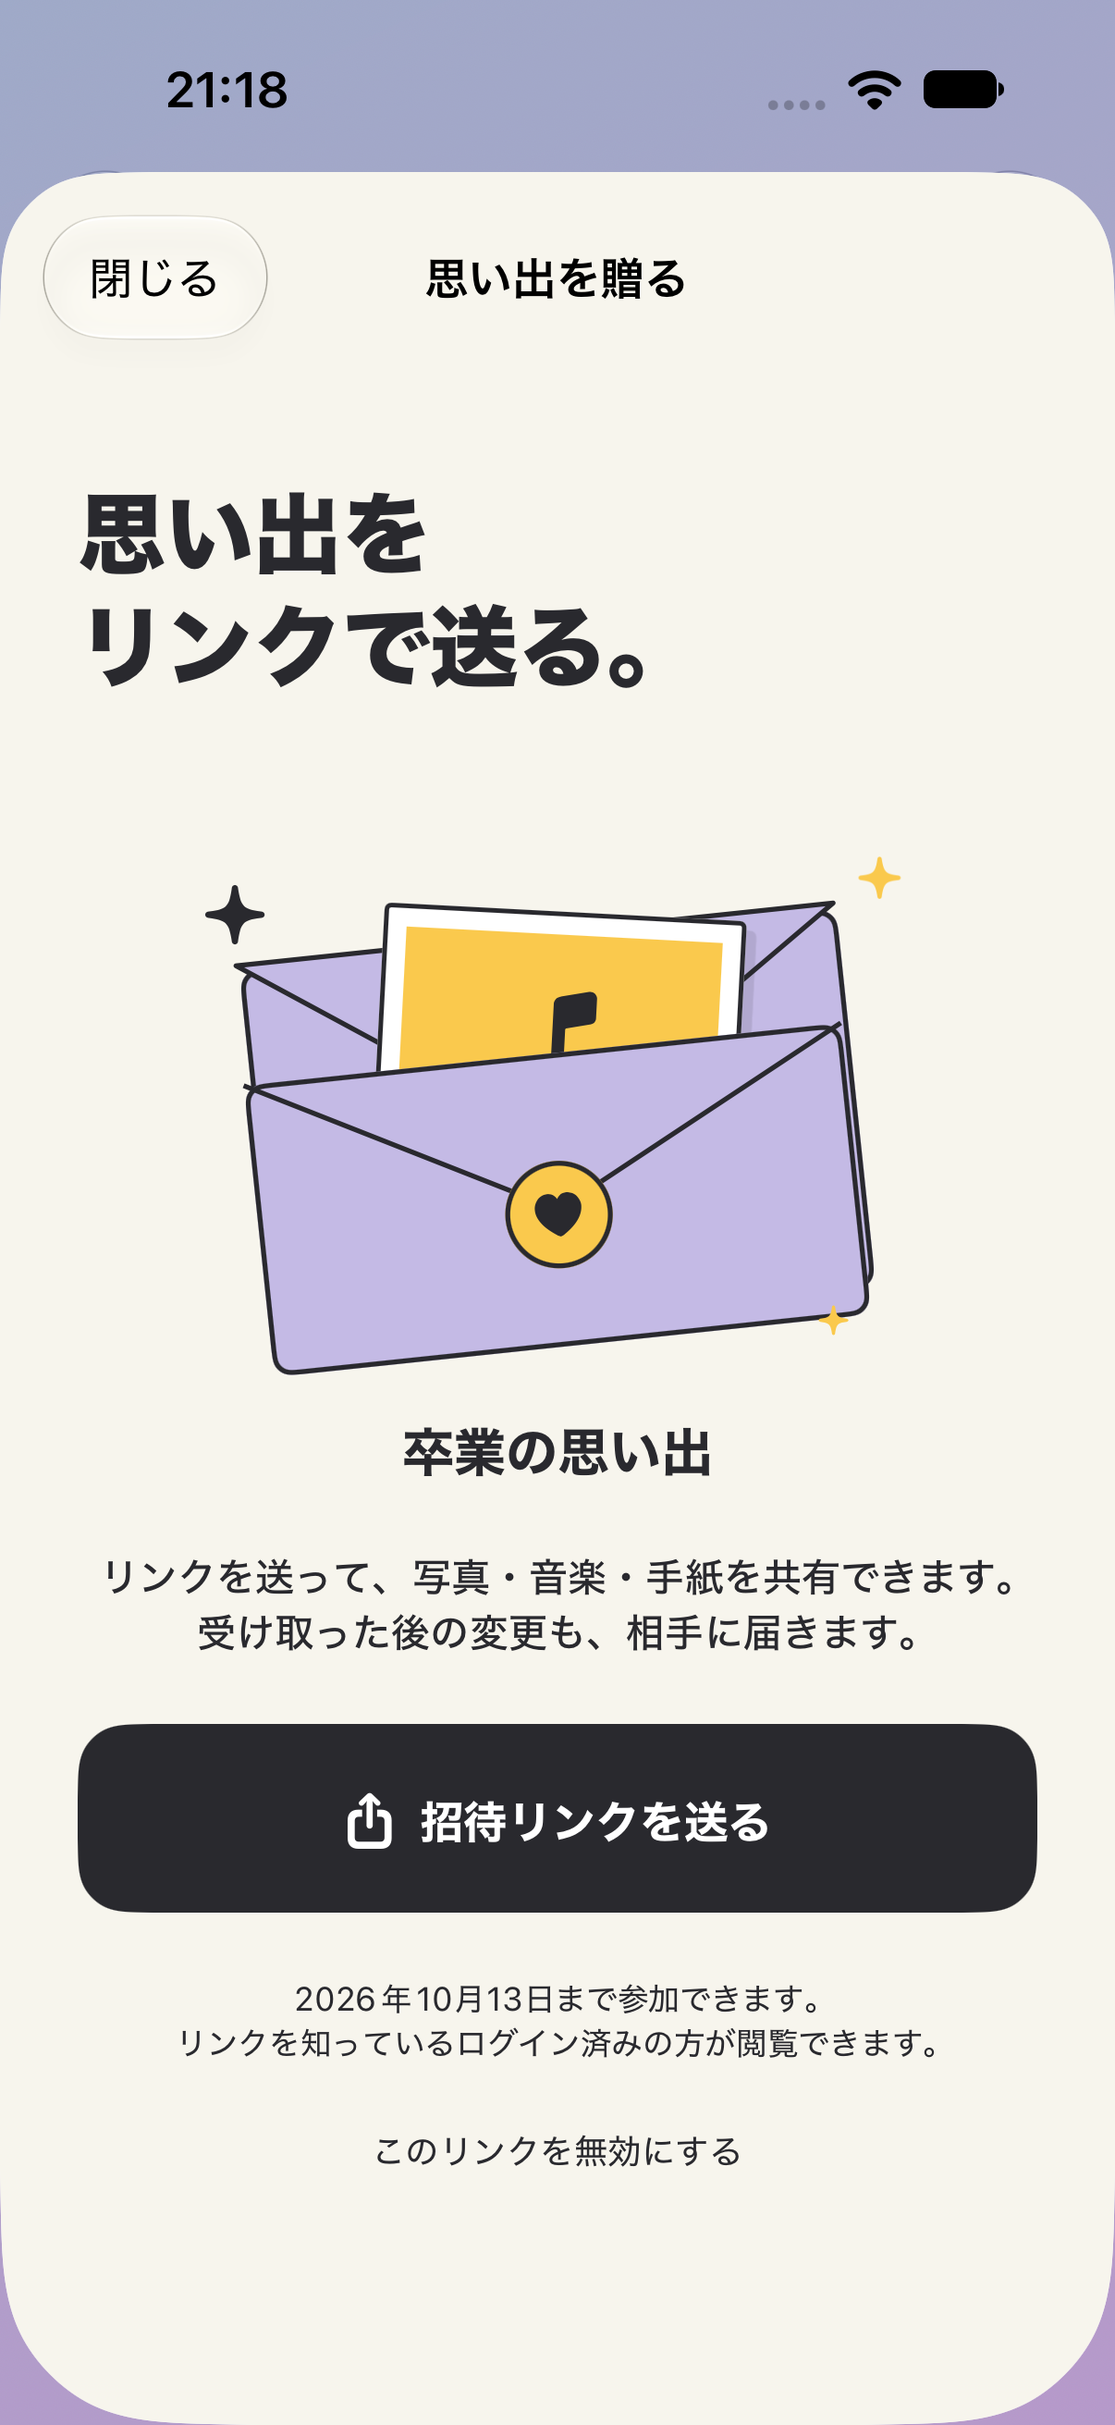
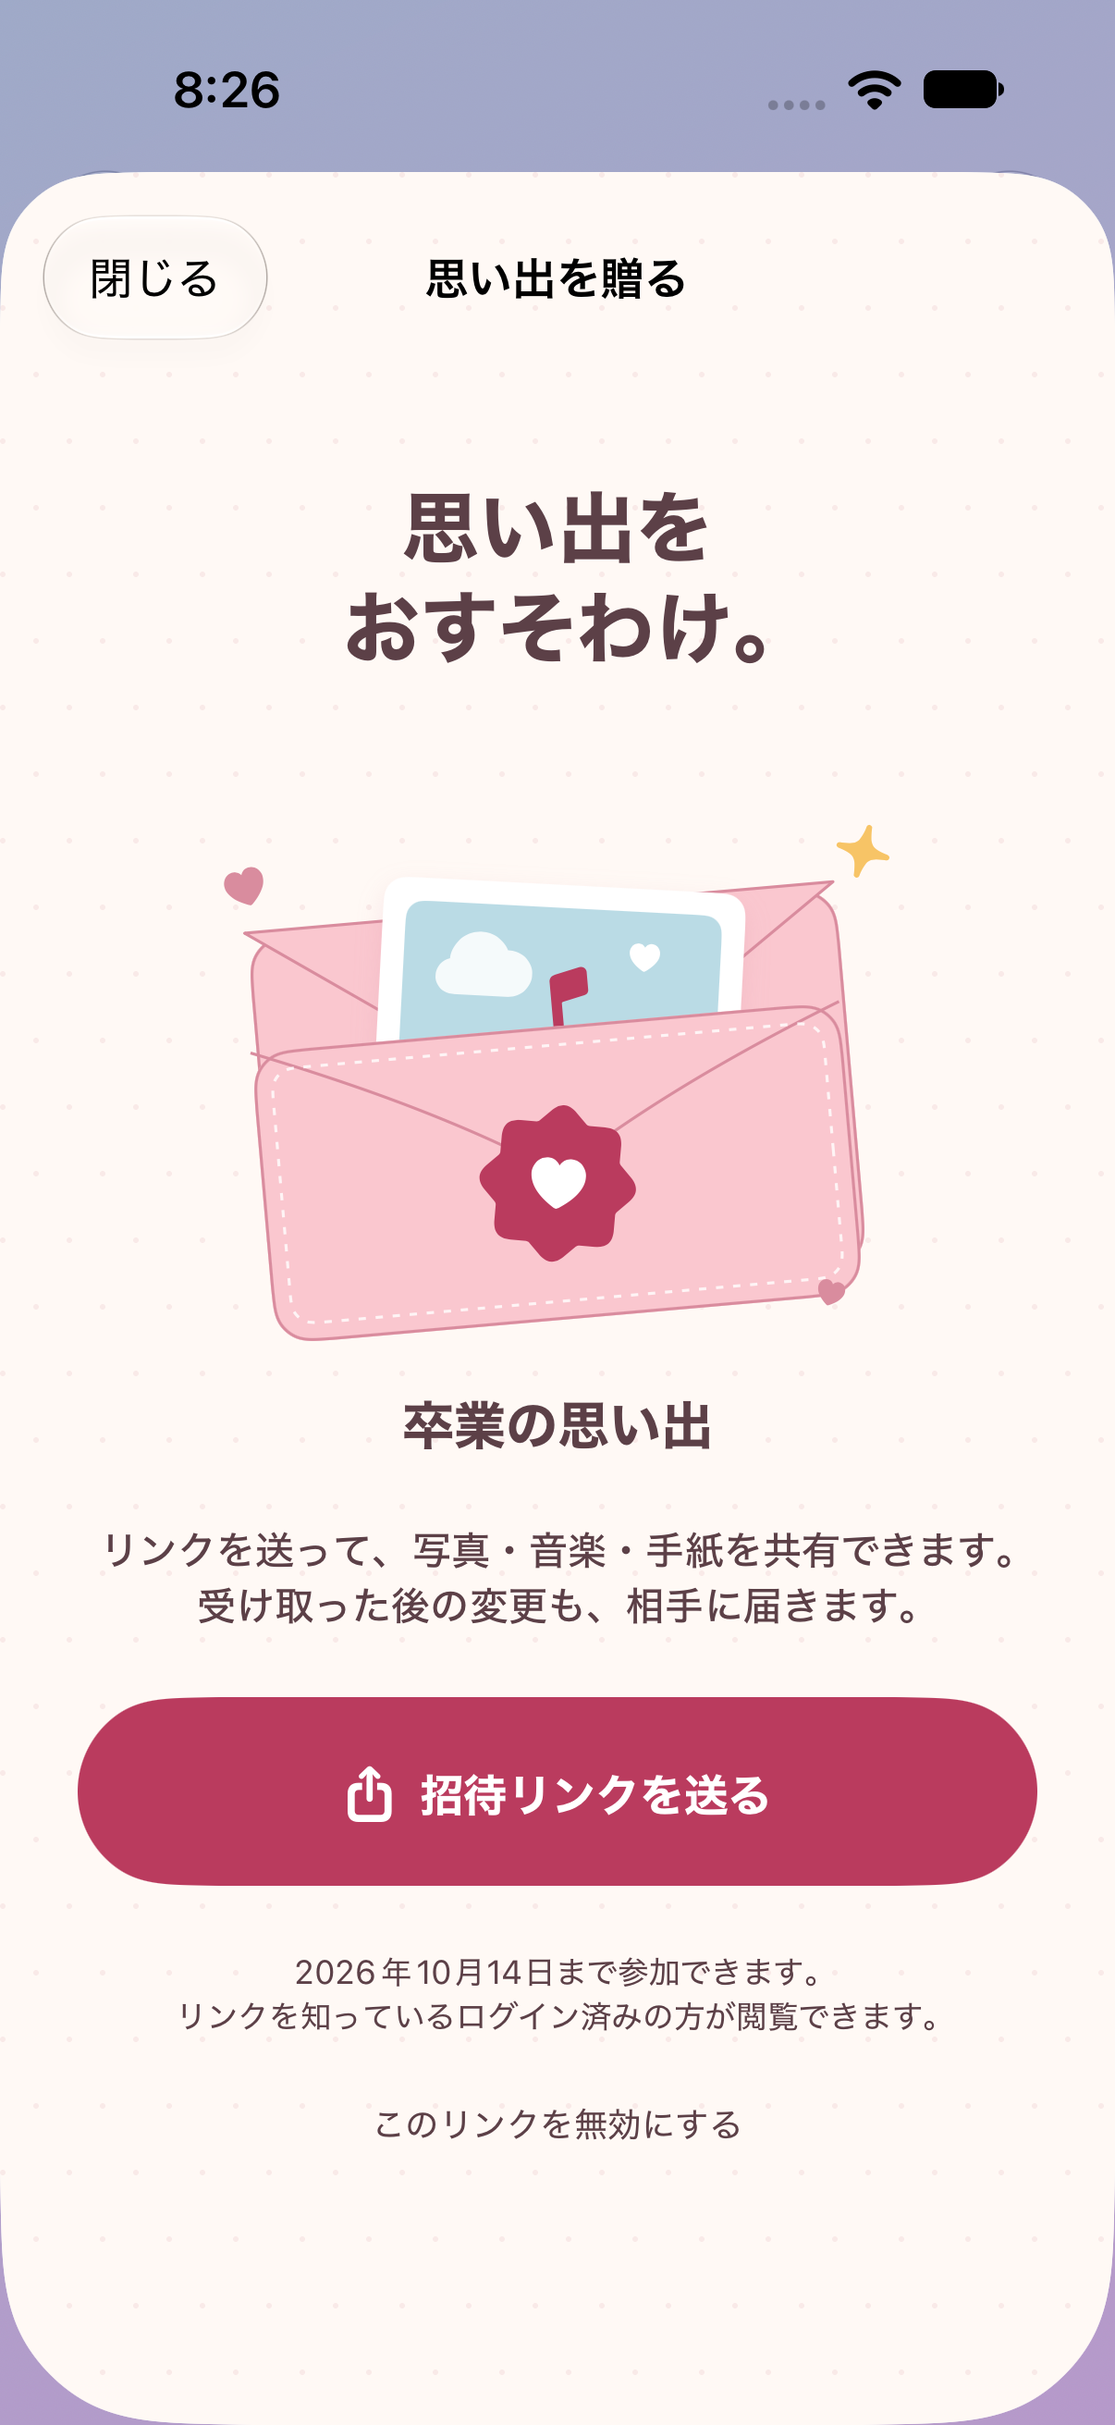
招待画面をピンクの封筒とハートの可愛いデザインへ調整

Changed region(s): [[0.0614, 0.3398, 0.9511, 0.8959], [0.0614, 0.1854, 0.675, 0.3089], [0.1534, 0.0309, 0.2761, 0.0618]]

diff --git a/sotsugyo/View/FolderInvitationView.swift b/sotsugyo/View/FolderInvitationView.swift
@@ -1,10 +1,13 @@
 import SwiftUI
 
 private enum GiftPalette {
-    static let ink = Color(red: 0.16, green: 0.16, blue: 0.18)
-    static let paper = Color(red: 0.97, green: 0.96, blue: 0.93)
-    static let lilac = Color(red: 0.77, green: 0.73, blue: 0.90)
-    static let yellow = Color(red: 0.98, green: 0.79, blue: 0.30)
+    static let ink = Color(red: 0.36, green: 0.25, blue: 0.28)
+    static let paper = Color(red: 1, green: 0.975, blue: 0.96)
+    static let pink = Color(red: 0.98, green: 0.78, blue: 0.81)
+    static let seam = Color(red: 0.85, green: 0.55, blue: 0.62)
+    static let rose = Color(red: 0.73, green: 0.23, blue: 0.37)
+    static let yellow = Color(red: 0.97, green: 0.77, blue: 0.40)
+    static let blue = Color(red: 0.73, green: 0.86, blue: 0.90)
 }
 
 struct FolderInvitationView: View {
@@ -26,15 +29,15 @@ struct FolderInvitationView: View {
                 GiftBackdrop()
                 ScrollView {
                     VStack(spacing: 24) {
-                        VStack(alignment: .leading, spacing: 12) {
+                        VStack(spacing: 12) {
                             Text(opened ? "思い出が、\n届きました。" : "思い出が\n届いています。")
-                                .font(.system(size: 34, weight: .black, design: .rounded))
-                                .multilineTextAlignment(.leading)
+                                .font(.system(size: 30, weight: .heavy, design: .rounded))
+                                .multilineTextAlignment(.center)
                                 .accessibilityIdentifier("invite.heading")
                             Text(opened ? "写真も、音楽も、手紙も。" : "写真と音楽、手紙をひとつに。")
                                 .font(.subheadline.weight(.semibold)).foregroundStyle(GiftPalette.ink.opacity(0.65))
                         }
-                        .frame(maxWidth: .infinity, alignment: .leading)
+                        .frame(maxWidth: .infinity)
                         .padding(.top, 16)
                         GiftEnvelope(opened: opened, reduceMotion: reduceMotion)
                             .frame(height: 250)
@@ -75,7 +78,7 @@ struct FolderInvitationView: View {
             .sensoryFeedback(.success, trigger: opened)
             .interactiveDismissDisabled(model.isWorking && model.invitation != nil)
         }
-        .tint(GiftPalette.ink)
+        .tint(GiftPalette.rose)
     }
 
     @ViewBuilder private var controls: some View {
@@ -97,7 +100,7 @@ struct FolderInvitationView: View {
                 }
                 .font(.system(.headline, design: .rounded, weight: .heavy)).frame(maxWidth: .infinity, minHeight: 58)
                 .foregroundStyle(.white)
-                .background(GiftPalette.ink, in: RoundedRectangle(cornerRadius: 18))
+                .background(GiftPalette.rose, in: Capsule())
             }
             .buttonStyle(.plain).disabled(model.isWorking)
             .accessibilityIdentifier("invite.open")
@@ -121,9 +124,10 @@ struct FolderInviteShareView: View {
                 GiftBackdrop()
                 ScrollView {
                     VStack(spacing: 24) {
-                        Text("思い出を\nリンクで送る。")
-                            .font(.system(size: 34, weight: .black, design: .rounded))
-                            .frame(maxWidth: .infinity, alignment: .leading)
+                        Text("思い出を\nおすそわけ。")
+                            .multilineTextAlignment(.center)
+                            .font(.system(size: 30, weight: .heavy, design: .rounded))
+                            .frame(maxWidth: .infinity)
                             .padding(.top, 12)
                         GiftEnvelope(opened: false, reduceMotion: true).scaleEffect(0.88).frame(height: 210)
                         Text(folderName).font(.system(.title3, design: .rounded, weight: .heavy))
@@ -135,7 +139,7 @@ struct FolderInviteShareView: View {
                                 Label("招待リンクを送る", systemImage: "square.and.arrow.up").foregroundStyle(.white)
                                     .font(.system(.headline, design: .rounded, weight: .heavy)).frame(maxWidth: .infinity, minHeight: 54)
                             }
-                            .buttonStyle(.borderedProminent).buttonBorderShape(.roundedRectangle(radius: 18))
+                            .buttonStyle(.borderedProminent).buttonBorderShape(.capsule)
                             .accessibilityIdentifier("invite.share")
                             Text("\(invitation.expiresAt.formatted(date: .abbreviated, time: .omitted))まで参加できます。\nリンクを知っているログイン済みの方が閲覧できます。")
                                 .font(.caption).multilineTextAlignment(.center)
@@ -144,13 +148,13 @@ struct FolderInviteShareView: View {
                         } else {
                             if model.isRevoked { Text("リンクを無効にしました。") }
                             Button(model.isRevoked ? "新しい招待リンクを作る" : "招待リンクを作る") { Task { await model.create(folderID: folderID) } }
-                                .font(.headline.weight(.heavy)).buttonStyle(.borderedProminent).controlSize(.large)
+                                .font(.headline.weight(.heavy)).buttonStyle(.borderedProminent).buttonBorderShape(.capsule).controlSize(.large)
                         }
                         if let error = model.error { Text(error).font(.footnote).foregroundStyle(.red) }
                     }.padding(28).frame(maxWidth: 540).frame(maxWidth: .infinity)
                 }
             }
-            .foregroundStyle(GiftPalette.ink).tint(GiftPalette.ink)
+            .foregroundStyle(GiftPalette.ink).tint(GiftPalette.rose)
             .navigationTitle("思い出を贈る").navigationBarTitleDisplayMode(.inline)
             .toolbar { ToolbarItem(placement: .cancellationAction) { Button("閉じる") { dismiss() }.disabled(model.isWorking) } }
             .confirmationDialog("招待リンクを無効にしますか？", isPresented: $confirmRevoke, titleVisibility: .visible) {
@@ -163,7 +167,17 @@ struct FolderInviteShareView: View {
 
 private struct GiftBackdrop: View {
     var body: some View {
-        GiftPalette.paper.ignoresSafeArea()
+        GiftPalette.paper.overlay {
+            Canvas { context, size in
+                for row in 0...Int(size.height / 24) {
+                    for column in 0...Int(size.width / 24) {
+                        let x = CGFloat(column) * 24 + (row.isMultiple(of: 2) ? 0 : 12)
+                        let dot = CGRect(x: x, y: CGFloat(row) * 24, width: 2, height: 2)
+                        context.fill(Path(ellipseIn: dot), with: .color(GiftPalette.seam.opacity(0.14)))
+                    }
+                }
+            }.accessibilityHidden(true)
+        }.ignoresSafeArea()
     }
 }
 
@@ -172,63 +186,75 @@ private struct GiftEnvelope: View {
     let reduceMotion: Bool
     var body: some View {
         ZStack {
-            // Flat paper layers keep the opening motion legible without a glowing backdrop.
-            RoundedRectangle(cornerRadius: 8)
-                .fill(GiftPalette.lilac)
-                .overlay { RoundedRectangle(cornerRadius: 8).strokeBorder(GiftPalette.ink, lineWidth: 2) }
-                .frame(width: 246, height: 156)
-                .rotationEffect(.degrees(-6)).offset(y: 28)
+            RoundedRectangle(cornerRadius: 16)
+                .fill(GiftPalette.pink)
+                .overlay { RoundedRectangle(cornerRadius: 16).strokeBorder(GiftPalette.seam, lineWidth: 1.2) }
+                .frame(width: 242, height: 156)
+                .rotationEffect(.degrees(-5)).offset(y: 28)
             EnvelopeFlap()
-                .fill(GiftPalette.lilac)
-                .overlay { EnvelopeFlap().stroke(GiftPalette.ink, style: StrokeStyle(lineWidth: 2, lineJoin: .round)) }
-                .frame(width: 246, height: 84)
+                .fill(GiftPalette.pink)
+                .overlay { EnvelopeFlap().stroke(GiftPalette.seam, style: StrokeStyle(lineWidth: 1.2, lineJoin: .round)) }
+                .frame(width: 242, height: 84)
                 .rotation3DEffect(.degrees(opened ? 180 : 0), axis: (x: 1, y: 0, z: 0), anchor: .top)
-                .rotationEffect(.degrees(-6)).offset(x: -5, y: -10)
+                .rotationEffect(.degrees(-5)).offset(x: -4, y: -10)
             VStack(spacing: 10) {
                 ZStack {
-                    Rectangle().fill(GiftPalette.yellow)
+                    RoundedRectangle(cornerRadius: 8).fill(GiftPalette.blue)
+                    Image(systemName: "cloud.fill")
+                        .font(.system(size: 36)).foregroundStyle(.white.opacity(0.85)).offset(x: -34, y: -22)
+                    Image(systemName: "cloud.fill")
+                        .font(.system(size: 26)).foregroundStyle(.white.opacity(0.85)).offset(x: 39, y: 24)
                     Image(systemName: "music.note")
-                        .font(.system(size: 46, weight: .black)).foregroundStyle(GiftPalette.ink)
+                        .font(.system(size: 42, weight: .heavy)).foregroundStyle(GiftPalette.rose)
+                        .rotationEffect(.degrees(-8))
+                    Image(systemName: "heart.fill")
+                        .font(.system(size: 13, weight: .bold)).foregroundStyle(.white).offset(x: 36, y: -28)
                 }.frame(height: 96)
                 HStack(spacing: 5) {
-                    Image(systemName: "heart.fill")
-                    Text("PicTune").fontWeight(.black)
+                    Image(systemName: "heart.fill").foregroundStyle(GiftPalette.rose)
+                    Text("PicTune").fontWeight(.heavy)
                 }.font(.system(size: 12, weight: .bold, design: .rounded))
             }
             .padding(10)
-            .background(.white, in: RoundedRectangle(cornerRadius: 3))
-            .overlay { RoundedRectangle(cornerRadius: 3).strokeBorder(GiftPalette.ink, lineWidth: 2) }
+            .background(.white, in: RoundedRectangle(cornerRadius: 10))
             .frame(width: 158)
             .rotationEffect(.degrees(opened ? 7 : 3))
             .offset(x: opened ? 10 : 0, y: opened ? -52 : 5)
             .scaleEffect(opened ? 1.08 : 0.94)
-            .shadow(color: GiftPalette.ink.opacity(0.12), radius: 0, x: 4, y: 4)
-            RoundedRectangle(cornerRadius: 8)
-                .fill(GiftPalette.lilac)
+            .shadow(color: GiftPalette.seam.opacity(0.18), radius: 5, x: 0, y: 4)
+            RoundedRectangle(cornerRadius: 16)
+                .fill(GiftPalette.pink)
                 .overlay {
                     Path { path in
                         path.move(to: CGPoint(x: 0, y: 0))
-                        path.addLine(to: CGPoint(x: 123, y: 64))
-                        path.addLine(to: CGPoint(x: 246, y: 0))
-                    }.stroke(GiftPalette.ink, lineWidth: 2)
+                        path.addQuadCurve(to: CGPoint(x: 121, y: 60), control: CGPoint(x: 76, y: 30))
+                        path.addQuadCurve(to: CGPoint(x: 242, y: 0), control: CGPoint(x: 166, y: 30))
+                    }.stroke(GiftPalette.seam, lineWidth: 1.2)
                 }
-                .overlay { RoundedRectangle(cornerRadius: 8).strokeBorder(GiftPalette.ink, lineWidth: 2) }
+                .overlay { RoundedRectangle(cornerRadius: 16).strokeBorder(GiftPalette.seam, lineWidth: 1.2) }
                 .overlay {
-                    Image(systemName: opened ? "checkmark" : "heart.fill")
-                        .font(.system(size: 18, weight: .black))
-                        .frame(width: 44, height: 44)
-                        .background(GiftPalette.yellow, in: Circle())
-                        .overlay { Circle().strokeBorder(GiftPalette.ink, lineWidth: 2) }
-                        .offset(y: 6)
+                    RoundedRectangle(cornerRadius: 10)
+                        .strokeBorder(.white.opacity(0.8), style: StrokeStyle(lineWidth: 1.2, dash: [3, 4]))
+                        .padding(7)
                 }
-                .frame(width: 246, height: 120)
-                .rotationEffect(.degrees(-6)).offset(y: 57)
+                .overlay {
+                    ZStack {
+                        Image(systemName: "seal.fill").font(.system(size: 58)).foregroundStyle(GiftPalette.rose)
+                        Image(systemName: "heart.fill").font(.system(size: 22, weight: .bold)).foregroundStyle(.white)
+                    }
+                    .rotationEffect(.degrees(10))
+                    .scaleEffect(opened ? 1.08 : 1)
+                    .offset(y: 4)
+                }
+                .frame(width: 242, height: 120)
+                .rotationEffect(.degrees(-5)).offset(y: 57)
             ForEach(0..<3) { index in
-                Image(systemName: "sparkle")
-                    .font(.system(size: CGFloat([24, 17, 12][index]), weight: .bold))
-                    .foregroundStyle(index == 0 ? GiftPalette.ink : GiftPalette.yellow)
-                    .offset(x: CGFloat([-132, 132, 113][index]), y: CGFloat([-60, -75, 106][index]))
-                    .scaleEffect(opened && !reduceMotion ? 1.5 : 1)
+                Image(systemName: index == 1 ? "sparkle" : "heart.fill")
+                    .font(.system(size: CGFloat([16, 22, 11][index]), weight: .bold))
+                    .foregroundStyle(index == 1 ? GiftPalette.yellow : GiftPalette.seam)
+                    .rotationEffect(.degrees(index == 0 ? -18 : 15))
+                    .offset(x: CGFloat([-128, 125, 112][index]), y: CGFloat([-60, -75, 106][index]))
+                    .scaleEffect(opened && !reduceMotion ? 1.4 : 1)
             }
         }
         .accessibilityElement(children: .ignore)
@@ -268,7 +294,7 @@ private struct GiftSparkles: View {
                     star.addLine(to: CGPoint(x: point.x, y: point.y + radius * 2))
                     star.addLine(to: CGPoint(x: point.x - radius, y: point.y)); star.closeSubpath()
                     context.opacity = max(0, 1 - elapsed / 2.5)
-                    context.fill(star, with: .color([GiftPalette.lilac, GiftPalette.yellow, GiftPalette.ink, .white][index % 4]))
+                    context.fill(star, with: .color([GiftPalette.pink, GiftPalette.yellow, GiftPalette.rose, GiftPalette.blue][index % 4]))
                 }
             }
         }

diff --git a/docs/verification/invite-links/README.md b/docs/verification/invite-links/README.md
@@ -1,10 +1,10 @@
 # 招待リンク・開封アニメーションの確認
 
-確認日: 2026-10-06（日本時間）
+確認日: 2026-10-06〜2026-10-07（日本時間）
 
 ## 画面
 
-招待・送信画面は太いゴシック体、無地の背景、黒いボタンへ調整しました。英字の飾り見出しとグラデーションをなくし、輪郭のある紙の封筒・チェキで表現しています。開封時のカードの動きと粒子の演出は残しています。
+招待・送信画面は太めの丸みのある文字、ピンクの封筒、ハートのシール、丸いローズ色のボタンに調整しました。淡いドット柄と封筒のステッチで、可愛らしい紙ものの雰囲気にしています。英字の飾り見出し・グラデーションは使わず、開封時のカードの動きと粒子の演出は残しています。
 
 Xcode 27.2 beta 2 / iPhone 18 Pro / iOS 27.0 の専用シミュレーター「PicTune Model Review」。写真・送り主名は確認用の架空データです。
 
@@ -12,7 +12,7 @@ Xcode 27.2 beta 2 / iPhone 18 Pro / iOS 27.0 の専用シミュレーター「Pi
 | --- | --- | --- |
 | ![招待](invitation.png) | ![開封](opened.png) | ![送信](send.png) |
 
-[アニメーションの録画](opening.gif) / [共有フォルダと手紙](shared-folder.png)
+[開封時の画面](opened.png) / [共有フォルダと手紙](shared-folder.png)
 
 ## 確認結果
 
@@ -22,7 +22,8 @@ Xcode 27.2 beta 2 / iPhone 18 Pro / iOS 27.0 の専用シミュレーター「Pi
 - 見た目の調整後、開封・送信のUIテスト2件を再実行して成功。最終の受信一覧リスナー・暗号学的トークン生成を含めてビルドと単体43件を再実行し成功。
 - Firestore/Storageエミュレーターのアクセス制御テスト9件成功。匿名拒否、招待一覧取得拒否、不正な参加・画像参照の拒否、同一招待の再参加、手紙・曲の閲覧と編集拒否、期限切れ・無効化・元フォルダ削除、共有画像、QRによる相手への保存（写真未作成の新規ユーザーを含む）、所有者付きの画像アップロードを確認。
 - 最新mainの写真詳細改善を統合後、単体43件と招待作成・開封・写真詳細のUIテスト3件を再実行して成功。
-- 太字・無地背景へのデザイン調整後も、招待作成・無効化、期限切れ、通信失敗、開封と同期のUIテスト4件を再実行して成功。上の画面と録画は調整後のものです。
+- 太字・無地背景へのデザイン調整後も、招待作成・無効化、期限切れ、通信失敗、開封と同期のUIテスト4件を再実行して成功。
+- 2026-10-07: ピンクの封筒・ハート・丸いボタンへの調整後、送信・無効化、開封と同期のUIテスト2件が成功。掲載画像は今回の画面です。旧デザインの録画は削除しました。
 - `git diff --check` 成功。
 
 ## 本番への反映
